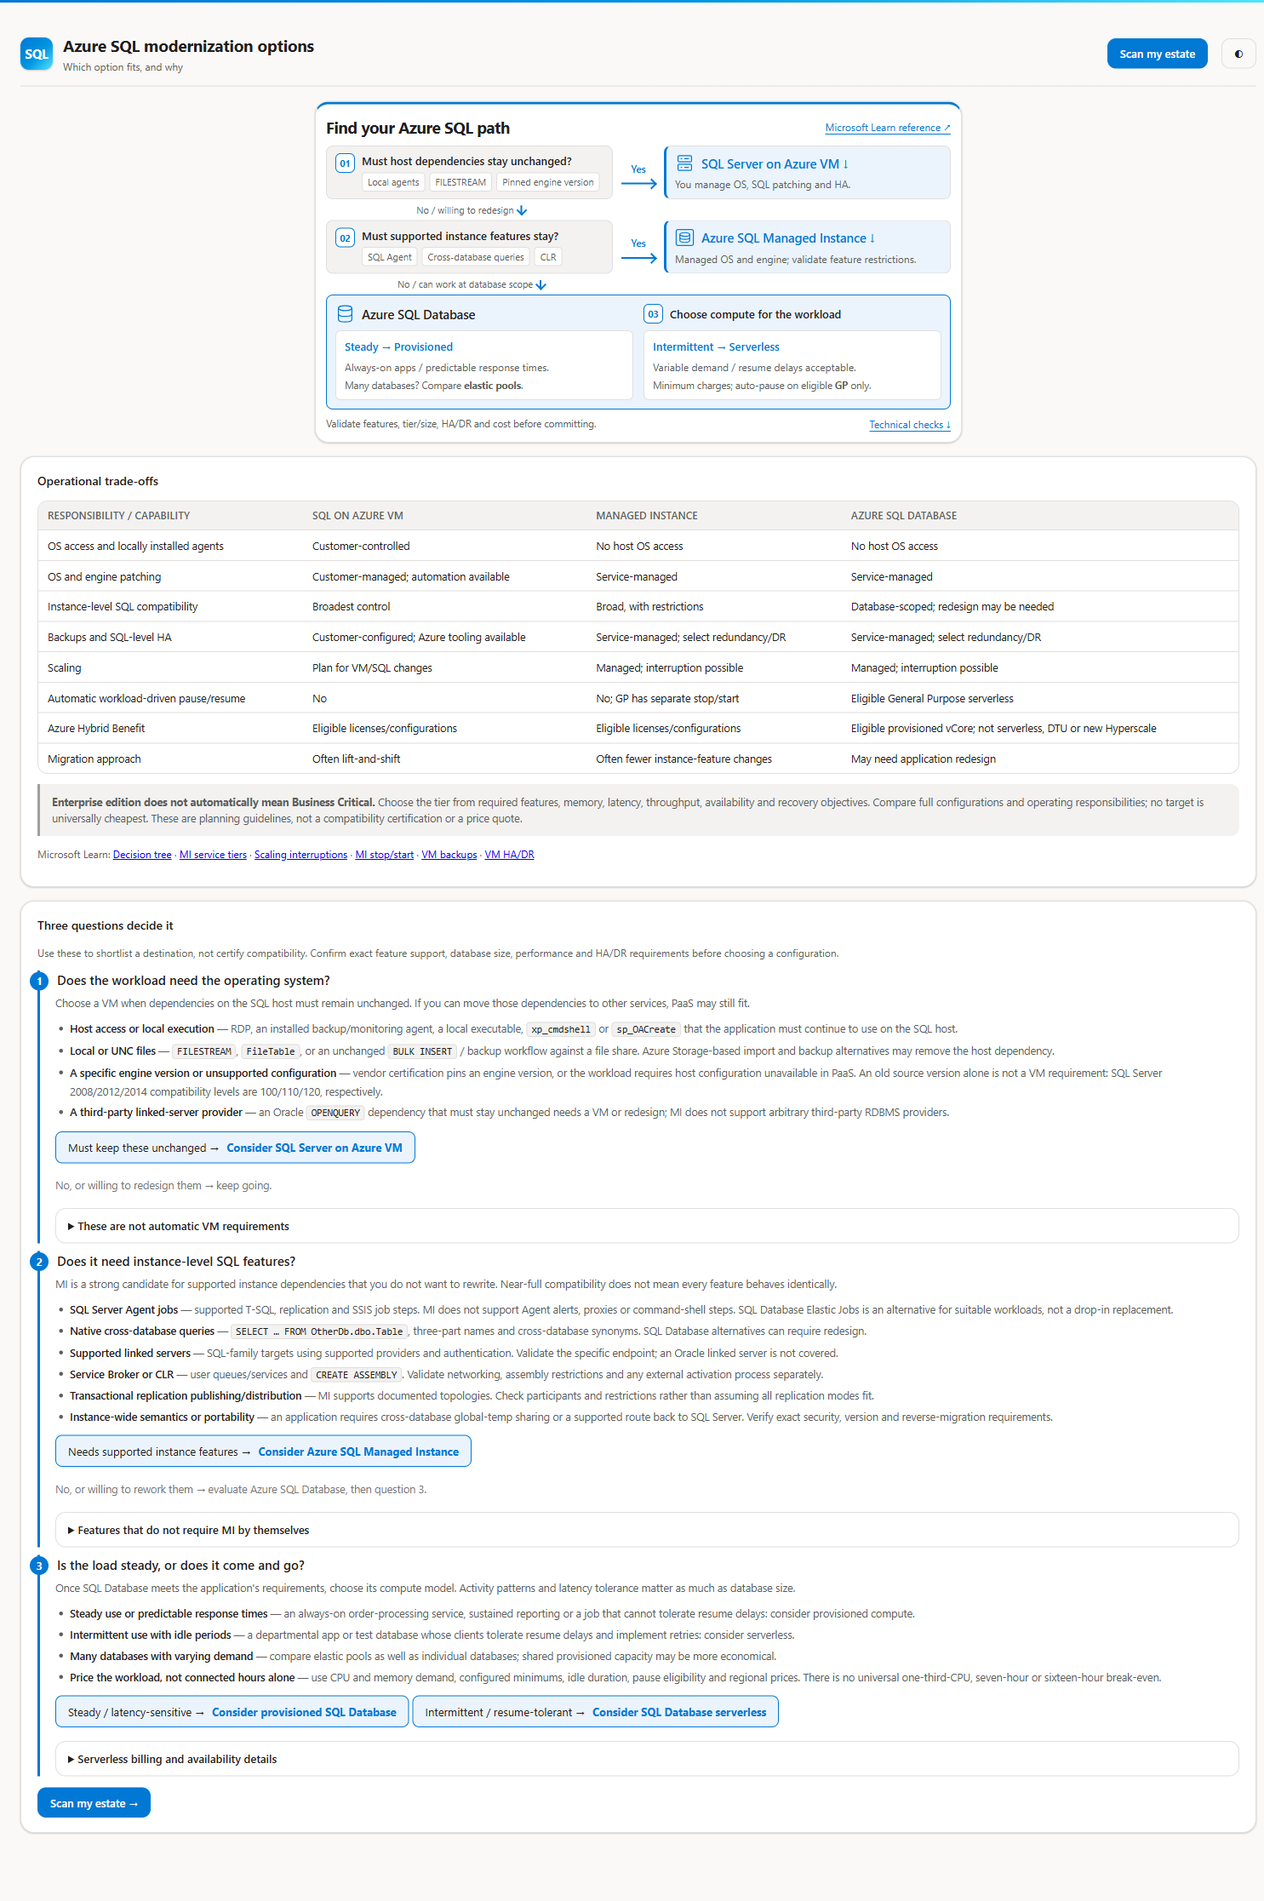
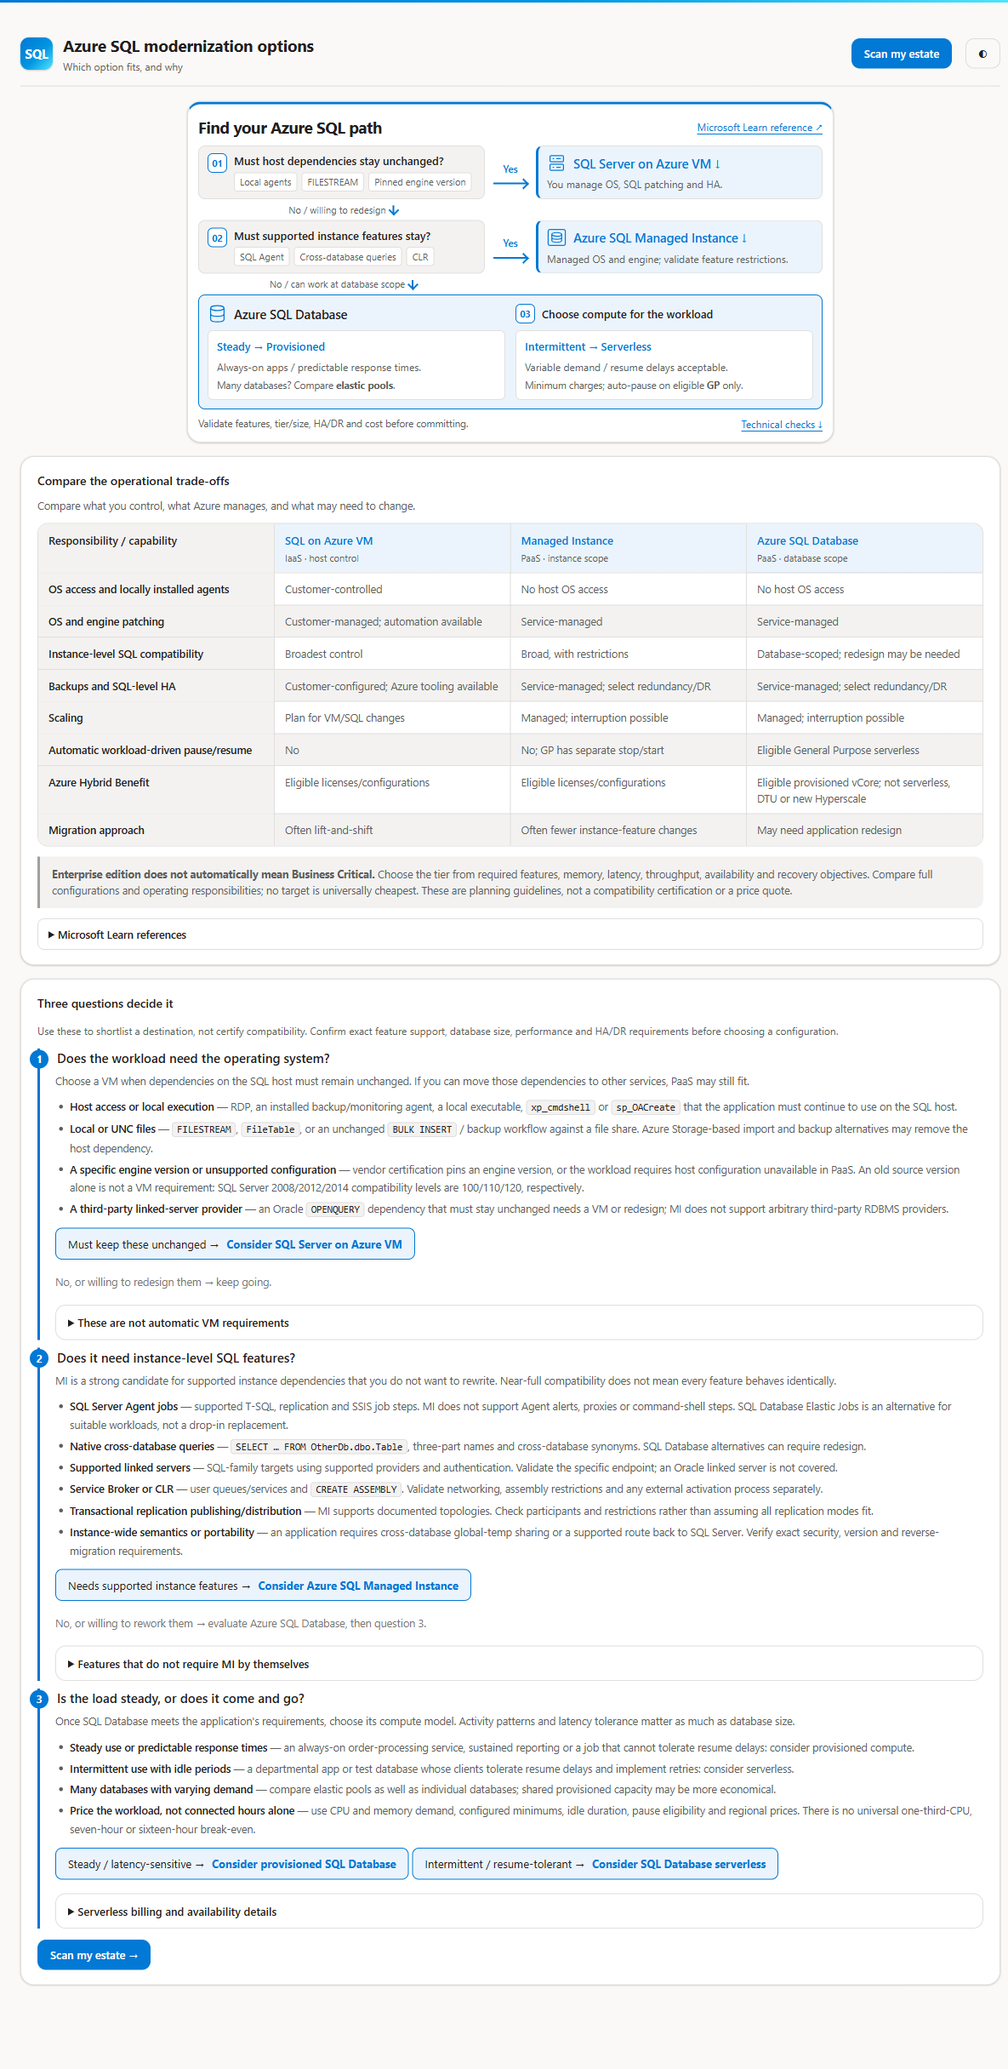
Improve readability and navigation of the comparison table
Wrap laptop-width table text, clarify column labels, keep mobile row headings visible, and collapse references. Preserve decision-map dimensions and comparison claims.

Changed region(s): [[0.0, 0.0, 0.9367, 0.9579], [0.843, 0.0, 0.9679, 0.0618]]

diff --git a/modernization-options/index.html b/modernization-options/index.html
@@ -356,6 +356,31 @@ details.acc[open] summary { margin-bottom: 9px; }
    Static explainer, no estate data. Reachable before anything is uploaded,
    because the first thing most customers need is not a number — it is to know
    that Managed Instance and serverless are not competing choices at all. */
+.guide-comparison .comparison-intro { color: var(--cp-text-muted); font-size: 12.5px; margin: -4px 0 12px; }
+.guide-comparison .tbl-wrap:focus-visible { outline: 2px solid var(--cp-accent); outline-offset: 3px; }
+.guide-comparison table { table-layout: fixed; min-width: 680px; }
+.guide-comparison th, .guide-comparison td { width: 25%; white-space: normal; overflow-wrap: anywhere; vertical-align: top; padding: 9px 12px; line-height: 1.5; }
+.guide-comparison thead th { font-size: 13px; font-weight: 600; text-transform: none; letter-spacing: normal; color: var(--cp-text); }
+.guide-comparison thead th:not(:first-child) { background: var(--cp-accent-soft); }
+.guide-comparison a { color: var(--cp-link); text-underline-offset: 3px; }
+.guide-comparison thead a { text-decoration: none; }
+.guide-comparison thead a:hover { text-decoration: underline; }
+.guide-comparison a:focus-visible { outline: 2px solid var(--cp-accent); outline-offset: 2px; }
+.comparison-subtitle { display: block; color: var(--cp-text-muted); font-size: 11px; font-weight: 400; margin-top: 3px; }
+.guide-comparison tbody th { position: sticky; top: auto; left: 0; z-index: 1; font-size: 12.5px; font-weight: 600; text-transform: none; letter-spacing: normal; color: var(--cp-text); background: var(--cp-surface-soft); user-select: text; }
+.guide-comparison thead th:first-child { left: 0; z-index: 3; }
+.guide-comparison td { color: var(--cp-text-muted); }
+.guide-comparison tr > :not(:last-child) { border-right: 1px solid var(--cp-border); }
+.guide-comparison tbody tr:nth-child(even) td { background: var(--cp-surface-soft); }
+.guide-comparison tbody tr:hover td { background: var(--cp-accent-soft); }
+.guide-comparison tbody tr:last-child th { border-bottom: none; }
+.guide-comparison .comparison-sources { margin-bottom: 0; padding: 8px 12px; border-radius: 8px; }
+.guide-comparison .comparison-sources summary { font-size: 12.5px; }
+.guide-comparison .comparison-sources p { font-size: 12.5px; line-height: 1.75; margin: 8px 0 0; }
+.comparison-scroll-hint { display: none; color: var(--cp-text-muted); font-size: 11.5px; margin: 0 0 8px; }
+@media (max-width: 760px) {
+  .comparison-scroll-hint { display: block; }
+}
 .modernization-map { width: 100%; max-width: 760px; margin-left: auto; margin-right: auto; padding: 12px; font-size: 12px; border-top: 3px solid var(--cp-accent); }
 .map-heading { display: flex; justify-content: space-between; align-items: center; gap: 12px; margin-bottom: 8px; }
 .map-eyebrow { font-size: 10.5px; font-weight: 600; text-transform: uppercase; letter-spacing: .08em; color: var(--cp-text-muted); }
@@ -559,25 +584,27 @@ details.acc[open] summary { margin-bottom: 9px; }
   </div>
 </section>
 
-<div class="card">
-  <h3>Operational trade-offs</h3>
-  <div class="tbl-wrap">
-    <table>
+<div class="card guide-comparison">
+  <h3 id="comparison-heading">Compare the operational trade-offs</h3>
+  <p class="comparison-intro">Compare what you control, what Azure manages, and what may need to change.</p>
+  <p class="comparison-scroll-hint">Swipe to compare. The capability column stays in view.</p>
+  <div class="tbl-wrap" role="region" aria-labelledby="comparison-heading" tabindex="0">
+    <table aria-labelledby="comparison-heading">
       <thead><tr>
-        <th class="nosort">Responsibility / capability</th>
-        <th class="nosort">SQL on Azure VM</th>
-        <th class="nosort">Managed Instance</th>
-        <th class="nosort">Azure SQL Database</th>
+        <th class="nosort" scope="col">Responsibility / capability</th>
+        <th class="nosort" scope="col"><a href="#os-requirements">SQL on Azure VM</a><span class="comparison-subtitle">IaaS · host control</span></th>
+        <th class="nosort" scope="col"><a href="#instance-requirements">Managed Instance</a><span class="comparison-subtitle">PaaS · instance scope</span></th>
+        <th class="nosort" scope="col"><a href="#compute-requirements">Azure SQL Database</a><span class="comparison-subtitle">PaaS · database scope</span></th>
       </tr></thead>
       <tbody>
-        <tr><td>OS access and locally installed agents</td><td>Customer-controlled</td><td>No host OS access</td><td>No host OS access</td></tr>
-        <tr><td>OS and engine patching</td><td>Customer-managed; automation available</td><td>Service-managed</td><td>Service-managed</td></tr>
-        <tr><td>Instance-level SQL compatibility</td><td>Broadest control</td><td>Broad, with restrictions</td><td>Database-scoped; redesign may be needed</td></tr>
-        <tr><td>Backups and SQL-level HA</td><td>Customer-configured; Azure tooling available</td><td>Service-managed; select redundancy/DR</td><td>Service-managed; select redundancy/DR</td></tr>
-        <tr><td>Scaling</td><td>Plan for VM/SQL changes</td><td>Managed; interruption possible</td><td>Managed; interruption possible</td></tr>
-        <tr><td>Automatic workload-driven pause/resume</td><td>No</td><td>No; GP has separate stop/start</td><td>Eligible General Purpose serverless</td></tr>
-        <tr><td>Azure Hybrid Benefit</td><td>Eligible licenses/configurations</td><td>Eligible licenses/configurations</td><td>Eligible provisioned vCore; not serverless, DTU or new Hyperscale</td></tr>
-        <tr><td>Migration approach</td><td>Often lift-and-shift</td><td>Often fewer instance-feature changes</td><td>May need application redesign</td></tr>
+        <tr><th class="nosort" scope="row">OS access and locally installed agents</th><td>Customer-controlled</td><td>No host OS access</td><td>No host OS access</td></tr>
+        <tr><th class="nosort" scope="row">OS and engine patching</th><td>Customer-managed; automation available</td><td>Service-managed</td><td>Service-managed</td></tr>
+        <tr><th class="nosort" scope="row">Instance-level SQL compatibility</th><td>Broadest control</td><td>Broad, with restrictions</td><td>Database-scoped; redesign may be needed</td></tr>
+        <tr><th class="nosort" scope="row">Backups and SQL-level HA</th><td>Customer-configured; Azure tooling available</td><td>Service-managed; select redundancy/DR</td><td>Service-managed; select redundancy/DR</td></tr>
+        <tr><th class="nosort" scope="row">Scaling</th><td>Plan for VM/SQL changes</td><td>Managed; interruption possible</td><td>Managed; interruption possible</td></tr>
+        <tr><th class="nosort" scope="row">Automatic workload-driven pause/resume</th><td>No</td><td>No; GP has separate stop/start</td><td>Eligible General Purpose serverless</td></tr>
+        <tr><th class="nosort" scope="row">Azure Hybrid Benefit</th><td>Eligible licenses/configurations</td><td>Eligible licenses/configurations</td><td>Eligible provisioned vCore; not serverless, DTU or new Hyperscale</td></tr>
+        <tr><th class="nosort" scope="row">Migration approach</th><td>Often lift-and-shift</td><td>Often fewer instance-feature changes</td><td>May need application redesign</td></tr>
       </tbody>
     </table>
   </div>
@@ -587,14 +614,17 @@ details.acc[open] summary { margin-bottom: 9px; }
     Compare full configurations and operating responsibilities; no target is universally cheapest.
     These are planning guidelines, not a compatibility certification or a price quote.
   </div>
-  <p class="sub">Microsoft Learn:
+  <details class="acc comparison-sources">
+    <summary>Microsoft Learn references</summary>
+    <p>
     <a href="https://learn.microsoft.com/en-us/azure/azure-sql/azure-sql-decision-tree?view=azuresql">Decision tree</a>
     · <a href="https://learn.microsoft.com/en-us/azure/azure-sql/managed-instance/service-tiers-managed-instance-vcore?view=azuresql">MI service tiers</a>
     · <a href="https://learn.microsoft.com/en-us/azure/azure-sql/database/scale-resources?view=azuresql">Scaling interruptions</a>
     · <a href="https://learn.microsoft.com/en-us/azure/azure-sql/managed-instance/instance-stop-start-how-to?view=azuresql">MI stop/start</a>
     · <a href="https://learn.microsoft.com/en-us/azure/azure-sql/virtual-machines/windows/backup-restore?view=azuresql">VM backups</a>
     · <a href="https://learn.microsoft.com/en-us/azure/azure-sql/virtual-machines/windows/business-continuity-high-availability-disaster-recovery-hadr-overview?view=azuresql">VM HA/DR</a>
-  </p>
+    </p>
+  </details>
 </div>
 
 <div class="card" id="technical-guidance">

diff --git a/src/guide.partial.html b/src/guide.partial.html
@@ -76,25 +76,27 @@
   </div>
 </section>
 
-<div class="card">
-  <h3>Operational trade-offs</h3>
-  <div class="tbl-wrap">
-    <table>
+<div class="card guide-comparison">
+  <h3 id="comparison-heading">Compare the operational trade-offs</h3>
+  <p class="comparison-intro">Compare what you control, what Azure manages, and what may need to change.</p>
+  <p class="comparison-scroll-hint">Swipe to compare. The capability column stays in view.</p>
+  <div class="tbl-wrap" role="region" aria-labelledby="comparison-heading" tabindex="0">
+    <table aria-labelledby="comparison-heading">
       <thead><tr>
-        <th class="nosort">Responsibility / capability</th>
-        <th class="nosort">SQL on Azure VM</th>
-        <th class="nosort">Managed Instance</th>
-        <th class="nosort">Azure SQL Database</th>
+        <th class="nosort" scope="col">Responsibility / capability</th>
+        <th class="nosort" scope="col"><a href="#os-requirements">SQL on Azure VM</a><span class="comparison-subtitle">IaaS · host control</span></th>
+        <th class="nosort" scope="col"><a href="#instance-requirements">Managed Instance</a><span class="comparison-subtitle">PaaS · instance scope</span></th>
+        <th class="nosort" scope="col"><a href="#compute-requirements">Azure SQL Database</a><span class="comparison-subtitle">PaaS · database scope</span></th>
       </tr></thead>
       <tbody>
-        <tr><td>OS access and locally installed agents</td><td>Customer-controlled</td><td>No host OS access</td><td>No host OS access</td></tr>
-        <tr><td>OS and engine patching</td><td>Customer-managed; automation available</td><td>Service-managed</td><td>Service-managed</td></tr>
-        <tr><td>Instance-level SQL compatibility</td><td>Broadest control</td><td>Broad, with restrictions</td><td>Database-scoped; redesign may be needed</td></tr>
-        <tr><td>Backups and SQL-level HA</td><td>Customer-configured; Azure tooling available</td><td>Service-managed; select redundancy/DR</td><td>Service-managed; select redundancy/DR</td></tr>
-        <tr><td>Scaling</td><td>Plan for VM/SQL changes</td><td>Managed; interruption possible</td><td>Managed; interruption possible</td></tr>
-        <tr><td>Automatic workload-driven pause/resume</td><td>No</td><td>No; GP has separate stop/start</td><td>Eligible General Purpose serverless</td></tr>
-        <tr><td>Azure Hybrid Benefit</td><td>Eligible licenses/configurations</td><td>Eligible licenses/configurations</td><td>Eligible provisioned vCore; not serverless, DTU or new Hyperscale</td></tr>
-        <tr><td>Migration approach</td><td>Often lift-and-shift</td><td>Often fewer instance-feature changes</td><td>May need application redesign</td></tr>
+        <tr><th class="nosort" scope="row">OS access and locally installed agents</th><td>Customer-controlled</td><td>No host OS access</td><td>No host OS access</td></tr>
+        <tr><th class="nosort" scope="row">OS and engine patching</th><td>Customer-managed; automation available</td><td>Service-managed</td><td>Service-managed</td></tr>
+        <tr><th class="nosort" scope="row">Instance-level SQL compatibility</th><td>Broadest control</td><td>Broad, with restrictions</td><td>Database-scoped; redesign may be needed</td></tr>
+        <tr><th class="nosort" scope="row">Backups and SQL-level HA</th><td>Customer-configured; Azure tooling available</td><td>Service-managed; select redundancy/DR</td><td>Service-managed; select redundancy/DR</td></tr>
+        <tr><th class="nosort" scope="row">Scaling</th><td>Plan for VM/SQL changes</td><td>Managed; interruption possible</td><td>Managed; interruption possible</td></tr>
+        <tr><th class="nosort" scope="row">Automatic workload-driven pause/resume</th><td>No</td><td>No; GP has separate stop/start</td><td>Eligible General Purpose serverless</td></tr>
+        <tr><th class="nosort" scope="row">Azure Hybrid Benefit</th><td>Eligible licenses/configurations</td><td>Eligible licenses/configurations</td><td>Eligible provisioned vCore; not serverless, DTU or new Hyperscale</td></tr>
+        <tr><th class="nosort" scope="row">Migration approach</th><td>Often lift-and-shift</td><td>Often fewer instance-feature changes</td><td>May need application redesign</td></tr>
       </tbody>
     </table>
   </div>
@@ -104,14 +106,17 @@
     Compare full configurations and operating responsibilities; no target is universally cheapest.
     These are planning guidelines, not a compatibility certification or a price quote.
   </div>
-  <p class="sub">Microsoft Learn:
+  <details class="acc comparison-sources">
+    <summary>Microsoft Learn references</summary>
+    <p>
     <a href="https://learn.microsoft.com/en-us/azure/azure-sql/azure-sql-decision-tree?view=azuresql">Decision tree</a>
     · <a href="https://learn.microsoft.com/en-us/azure/azure-sql/managed-instance/service-tiers-managed-instance-vcore?view=azuresql">MI service tiers</a>
     · <a href="https://learn.microsoft.com/en-us/azure/azure-sql/database/scale-resources?view=azuresql">Scaling interruptions</a>
     · <a href="https://learn.microsoft.com/en-us/azure/azure-sql/managed-instance/instance-stop-start-how-to?view=azuresql">MI stop/start</a>
     · <a href="https://learn.microsoft.com/en-us/azure/azure-sql/virtual-machines/windows/backup-restore?view=azuresql">VM backups</a>
     · <a href="https://learn.microsoft.com/en-us/azure/azure-sql/virtual-machines/windows/business-continuity-high-availability-disaster-recovery-hadr-overview?view=azuresql">VM HA/DR</a>
-  </p>
+    </p>
+  </details>
 </div>
 
 <div class="card" id="technical-guidance">

diff --git a/index.html b/index.html
@@ -355,6 +355,31 @@ details.acc[open] summary { margin-bottom: 9px; }
    Static explainer, no estate data. Reachable before anything is uploaded,
    because the first thing most customers need is not a number — it is to know
    that Managed Instance and serverless are not competing choices at all. */
+.guide-comparison .comparison-intro { color: var(--cp-text-muted); font-size: 12.5px; margin: -4px 0 12px; }
+.guide-comparison .tbl-wrap:focus-visible { outline: 2px solid var(--cp-accent); outline-offset: 3px; }
+.guide-comparison table { table-layout: fixed; min-width: 680px; }
+.guide-comparison th, .guide-comparison td { width: 25%; white-space: normal; overflow-wrap: anywhere; vertical-align: top; padding: 9px 12px; line-height: 1.5; }
+.guide-comparison thead th { font-size: 13px; font-weight: 600; text-transform: none; letter-spacing: normal; color: var(--cp-text); }
+.guide-comparison thead th:not(:first-child) { background: var(--cp-accent-soft); }
+.guide-comparison a { color: var(--cp-link); text-underline-offset: 3px; }
+.guide-comparison thead a { text-decoration: none; }
+.guide-comparison thead a:hover { text-decoration: underline; }
+.guide-comparison a:focus-visible { outline: 2px solid var(--cp-accent); outline-offset: 2px; }
+.comparison-subtitle { display: block; color: var(--cp-text-muted); font-size: 11px; font-weight: 400; margin-top: 3px; }
+.guide-comparison tbody th { position: sticky; top: auto; left: 0; z-index: 1; font-size: 12.5px; font-weight: 600; text-transform: none; letter-spacing: normal; color: var(--cp-text); background: var(--cp-surface-soft); user-select: text; }
+.guide-comparison thead th:first-child { left: 0; z-index: 3; }
+.guide-comparison td { color: var(--cp-text-muted); }
+.guide-comparison tr > :not(:last-child) { border-right: 1px solid var(--cp-border); }
+.guide-comparison tbody tr:nth-child(even) td { background: var(--cp-surface-soft); }
+.guide-comparison tbody tr:hover td { background: var(--cp-accent-soft); }
+.guide-comparison tbody tr:last-child th { border-bottom: none; }
+.guide-comparison .comparison-sources { margin-bottom: 0; padding: 8px 12px; border-radius: 8px; }
+.guide-comparison .comparison-sources summary { font-size: 12.5px; }
+.guide-comparison .comparison-sources p { font-size: 12.5px; line-height: 1.75; margin: 8px 0 0; }
+.comparison-scroll-hint { display: none; color: var(--cp-text-muted); font-size: 11.5px; margin: 0 0 8px; }
+@media (max-width: 760px) {
+  .comparison-scroll-hint { display: block; }
+}
 .modernization-map { width: 100%; max-width: 760px; margin-left: auto; margin-right: auto; padding: 12px; font-size: 12px; border-top: 3px solid var(--cp-accent); }
 .map-heading { display: flex; justify-content: space-between; align-items: center; gap: 12px; margin-bottom: 8px; }
 .map-eyebrow { font-size: 10.5px; font-weight: 600; text-transform: uppercase; letter-spacing: .08em; color: var(--cp-text-muted); }

diff --git a/src/app.template.html b/src/app.template.html
@@ -355,6 +355,31 @@ details.acc[open] summary { margin-bottom: 9px; }
    Static explainer, no estate data. Reachable before anything is uploaded,
    because the first thing most customers need is not a number — it is to know
    that Managed Instance and serverless are not competing choices at all. */
+.guide-comparison .comparison-intro { color: var(--cp-text-muted); font-size: 12.5px; margin: -4px 0 12px; }
+.guide-comparison .tbl-wrap:focus-visible { outline: 2px solid var(--cp-accent); outline-offset: 3px; }
+.guide-comparison table { table-layout: fixed; min-width: 680px; }
+.guide-comparison th, .guide-comparison td { width: 25%; white-space: normal; overflow-wrap: anywhere; vertical-align: top; padding: 9px 12px; line-height: 1.5; }
+.guide-comparison thead th { font-size: 13px; font-weight: 600; text-transform: none; letter-spacing: normal; color: var(--cp-text); }
+.guide-comparison thead th:not(:first-child) { background: var(--cp-accent-soft); }
+.guide-comparison a { color: var(--cp-link); text-underline-offset: 3px; }
+.guide-comparison thead a { text-decoration: none; }
+.guide-comparison thead a:hover { text-decoration: underline; }
+.guide-comparison a:focus-visible { outline: 2px solid var(--cp-accent); outline-offset: 2px; }
+.comparison-subtitle { display: block; color: var(--cp-text-muted); font-size: 11px; font-weight: 400; margin-top: 3px; }
+.guide-comparison tbody th { position: sticky; top: auto; left: 0; z-index: 1; font-size: 12.5px; font-weight: 600; text-transform: none; letter-spacing: normal; color: var(--cp-text); background: var(--cp-surface-soft); user-select: text; }
+.guide-comparison thead th:first-child { left: 0; z-index: 3; }
+.guide-comparison td { color: var(--cp-text-muted); }
+.guide-comparison tr > :not(:last-child) { border-right: 1px solid var(--cp-border); }
+.guide-comparison tbody tr:nth-child(even) td { background: var(--cp-surface-soft); }
+.guide-comparison tbody tr:hover td { background: var(--cp-accent-soft); }
+.guide-comparison tbody tr:last-child th { border-bottom: none; }
+.guide-comparison .comparison-sources { margin-bottom: 0; padding: 8px 12px; border-radius: 8px; }
+.guide-comparison .comparison-sources summary { font-size: 12.5px; }
+.guide-comparison .comparison-sources p { font-size: 12.5px; line-height: 1.75; margin: 8px 0 0; }
+.comparison-scroll-hint { display: none; color: var(--cp-text-muted); font-size: 11.5px; margin: 0 0 8px; }
+@media (max-width: 760px) {
+  .comparison-scroll-hint { display: block; }
+}
 .modernization-map { width: 100%; max-width: 760px; margin-left: auto; margin-right: auto; padding: 12px; font-size: 12px; border-top: 3px solid var(--cp-accent); }
 .map-heading { display: flex; justify-content: space-between; align-items: center; gap: 12px; margin-bottom: 8px; }
 .map-eyebrow { font-size: 10.5px; font-weight: 600; text-transform: uppercase; letter-spacing: .08em; color: var(--cp-text-muted); }
